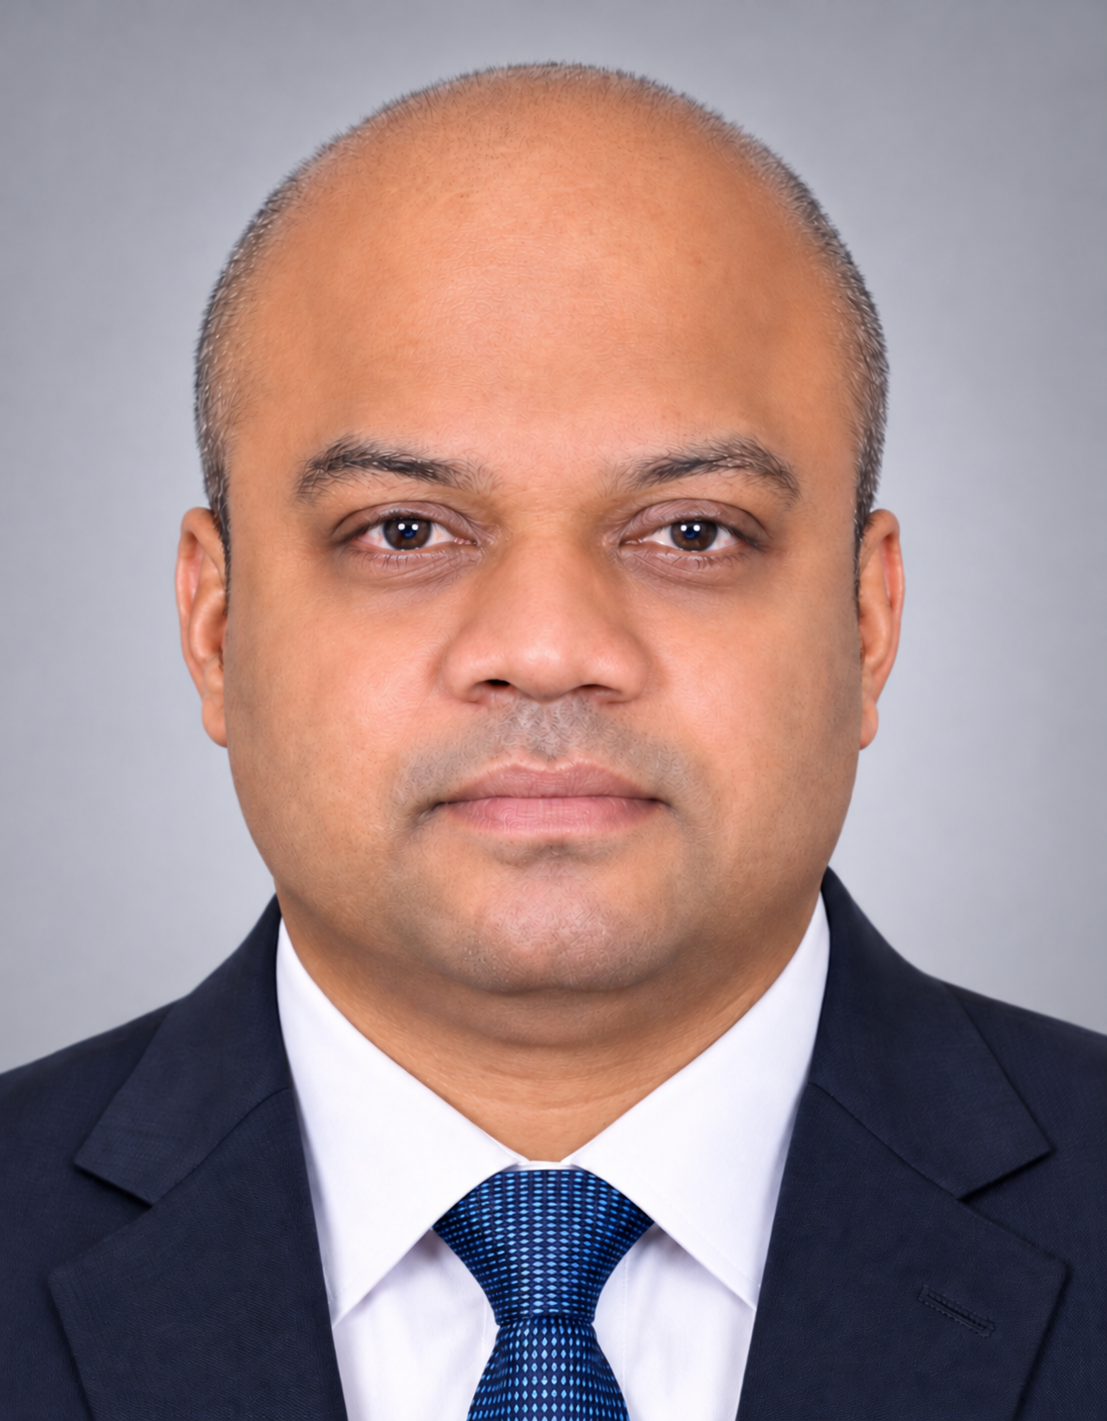
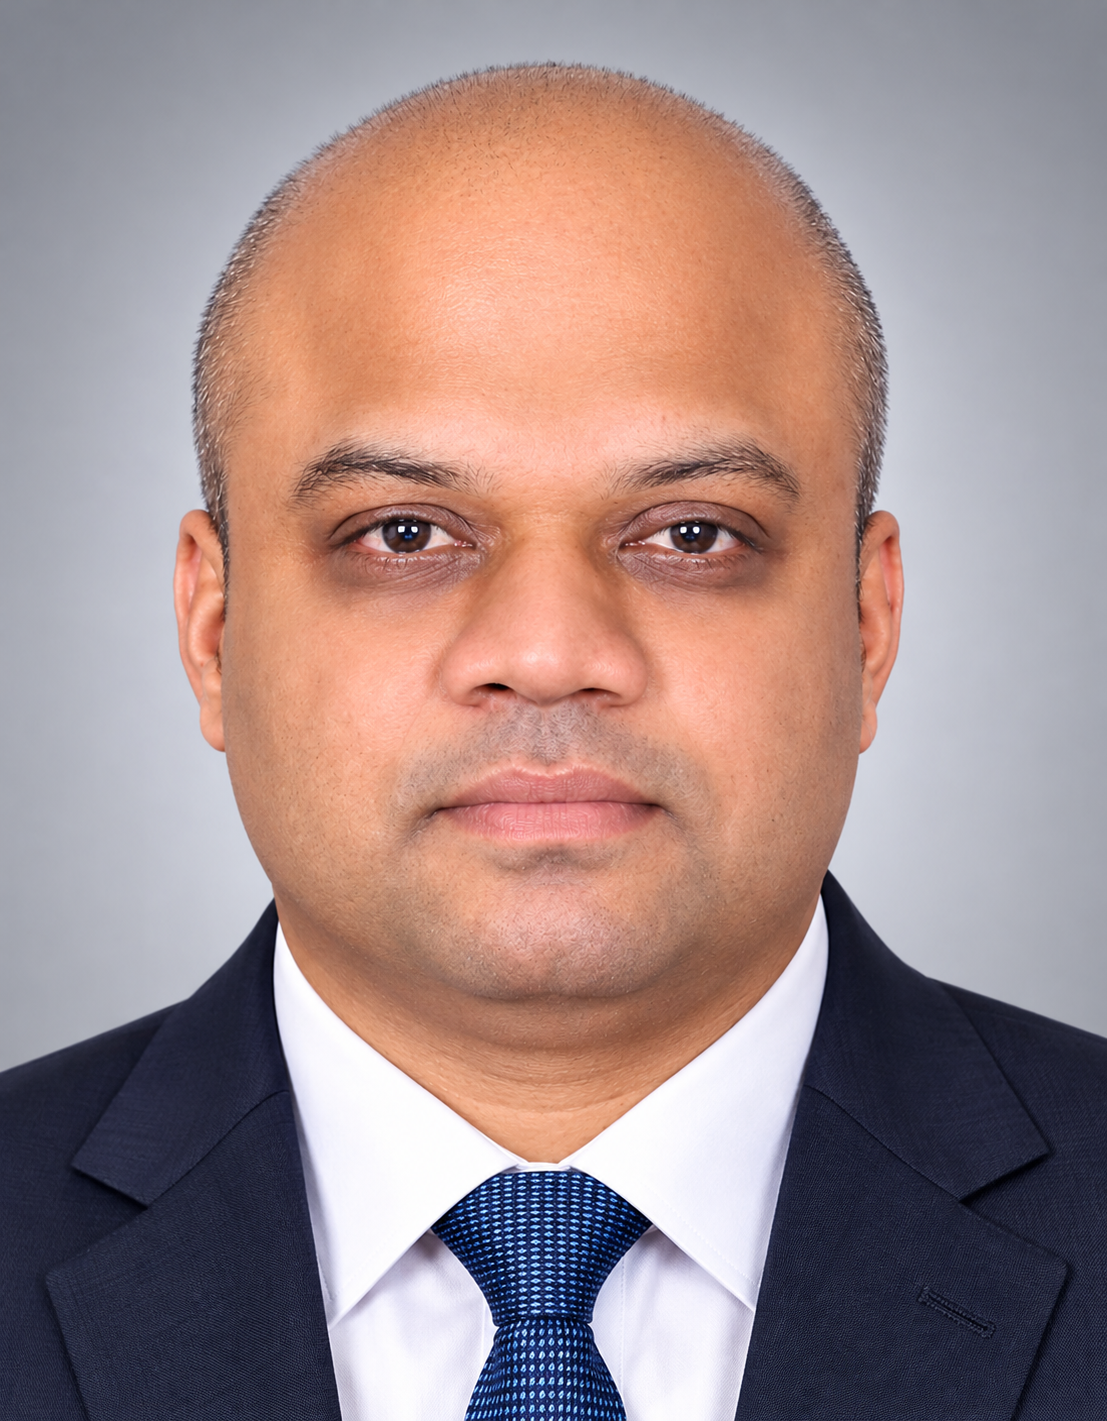
Added ben photo

diff --git a/opus-bpo/src/pages/AboutPillars.jsx b/opus-bpo/src/pages/AboutPillars.jsx
@@ -3,6 +3,15 @@ import SectionHeader from "../components/SectionHeader.jsx"
 // Enable when the remaining partner profiles are ready to display.
 const showAdditionalPartnerCards = false
 
+const benBiography = [
+  "Ben Thatha is the President of OPUS BPO, Inc., bringing over 20 years of extensive experience in Revenue Cycle Management (RCM), healthcare business operations, and information technology. He has dedicated his career to helping healthcare providers, independent physician practices, and medical billing organizations improve operational efficiency, optimize revenue performance, and build scalable business processes.",
+  "With deep expertise across the entire revenue cycle, Ben has led and managed diverse RCM operations spanning medical billing, coding, accounts receivable management, denial management, payment posting, credentialing, and revenue optimization across multiple medical specialties.",
+  "In addition to his extensive RCM experience, Ben brings a strong background in information technology, having previously managed large-scale Oracle data mining and data analysis projects. This combination of healthcare domain knowledge and technology expertise gives him a unique perspective on leveraging data to identify operational trends, uncover revenue opportunities, improve financial performance, and drive informed business decisions. He strongly believes that data analytics and technology play a critical role in transforming healthcare revenue cycle management.",
+  "Under his leadership, OPUS has continued to strengthen its capabilities as a trusted RCM partner, delivering comprehensive, technology-enabled solutions to healthcare organizations across the United States. He is particularly focused on building strong client partnerships, driving operational excellence, developing high-performing teams, and leveraging technology and automation to transform traditional healthcare revenue cycle operations.",
+  "Ben is passionate about the evolving role of artificial intelligence, automation, and advanced data analytics in healthcare. He is actively focused on integrating innovative technologies into RCM workflows to improve productivity, enhance revenue outcomes, and deliver greater value to clients.",
+  "His leadership philosophy centers on building long-term relationships, maintaining a strong commitment to service quality, and creating sustainable growth through operational excellence, innovation, data-driven decision-making, and a people-first approach.",
+]
+
 const pillars = [
   {
     title: "Accuracy",
@@ -75,21 +84,26 @@ const AboutPillars = () => (
             title="Partners of OPUS BPO"
           />
         </div>
-        <div className="mt-10 flex flex-wrap justify-center gap-6">
-          <div className="w-full max-w-[260px] overflow-hidden border border-slate-200 bg-white">
+        <div className="mt-10 grid items-start gap-8 md:grid-cols-[260px_minmax(0,1fr)] lg:gap-12">
+          <div className="mx-auto w-full max-w-[260px] overflow-hidden border border-slate-200 bg-white">
             <img
-              src="/ben-square.png"
-              alt="Ben, CEO of OPUS BPO"
+              src="/Ben%20photo.png"
+              alt="Ben Thatha, President of OPUS BPO, Inc."
               loading="lazy"
               decoding="async"
-              width="1024"
-              height="1024"
-              className="block aspect-square w-full object-cover"
+              width="1107"
+              height="1421"
+              className="block h-auto w-full"
             />
             <div className="bg-white px-5 py-4 text-center">
-              <p className="font-heading text-xl font-semibold text-brand-slate">Ben</p>
-              <p className="mt-1 text-sm text-slate-600">CEO</p>
+              <h3 className="font-heading text-xl font-semibold text-brand-slate">Ben Thatha</h3>
+              <p className="mt-1 text-sm text-slate-600">President</p>
             </div>
+          </div>
+          <div className="space-y-5 text-base leading-relaxed text-slate-700">
+            {benBiography.map((paragraph) => (
+              <p key={paragraph}>{paragraph}</p>
+            ))}
           </div>
           {showAdditionalPartnerCards && [1, 2].map((slot) => (
             <div key={slot} className="card-metal w-full max-w-sm overflow-hidden rounded-3xl">
